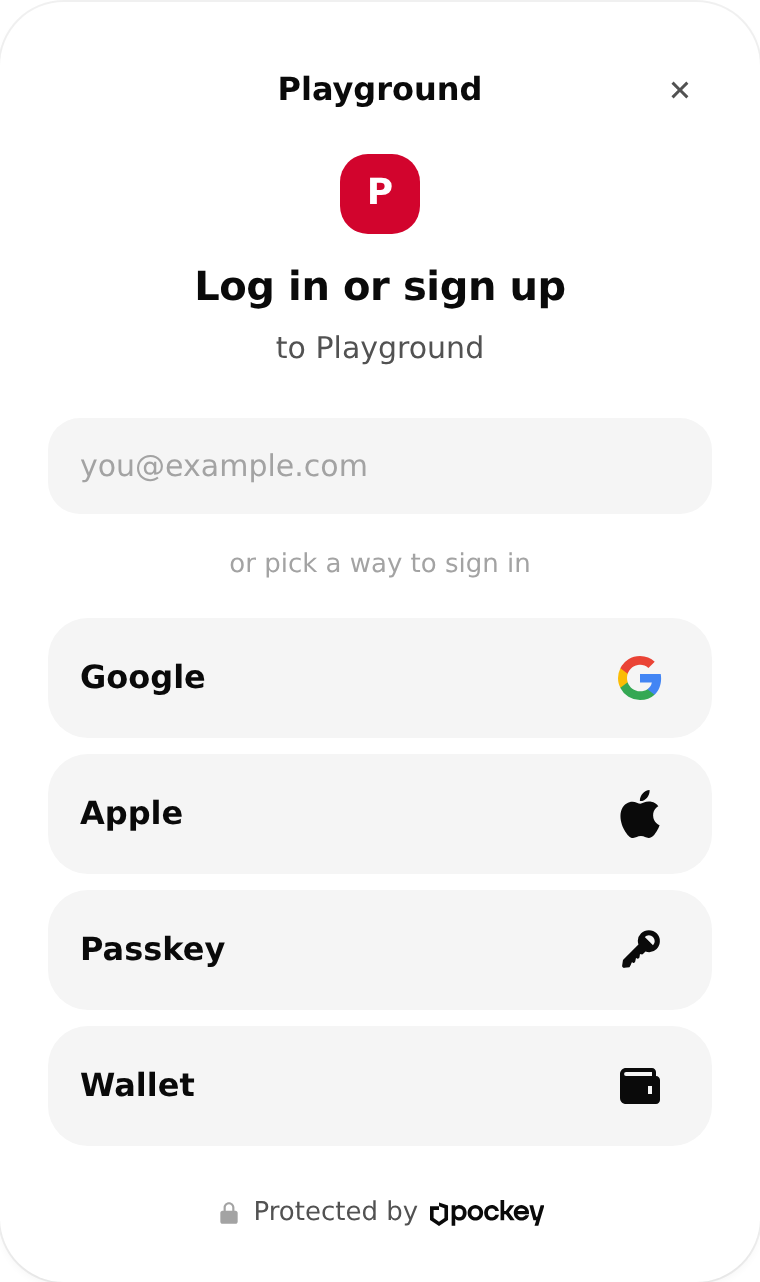
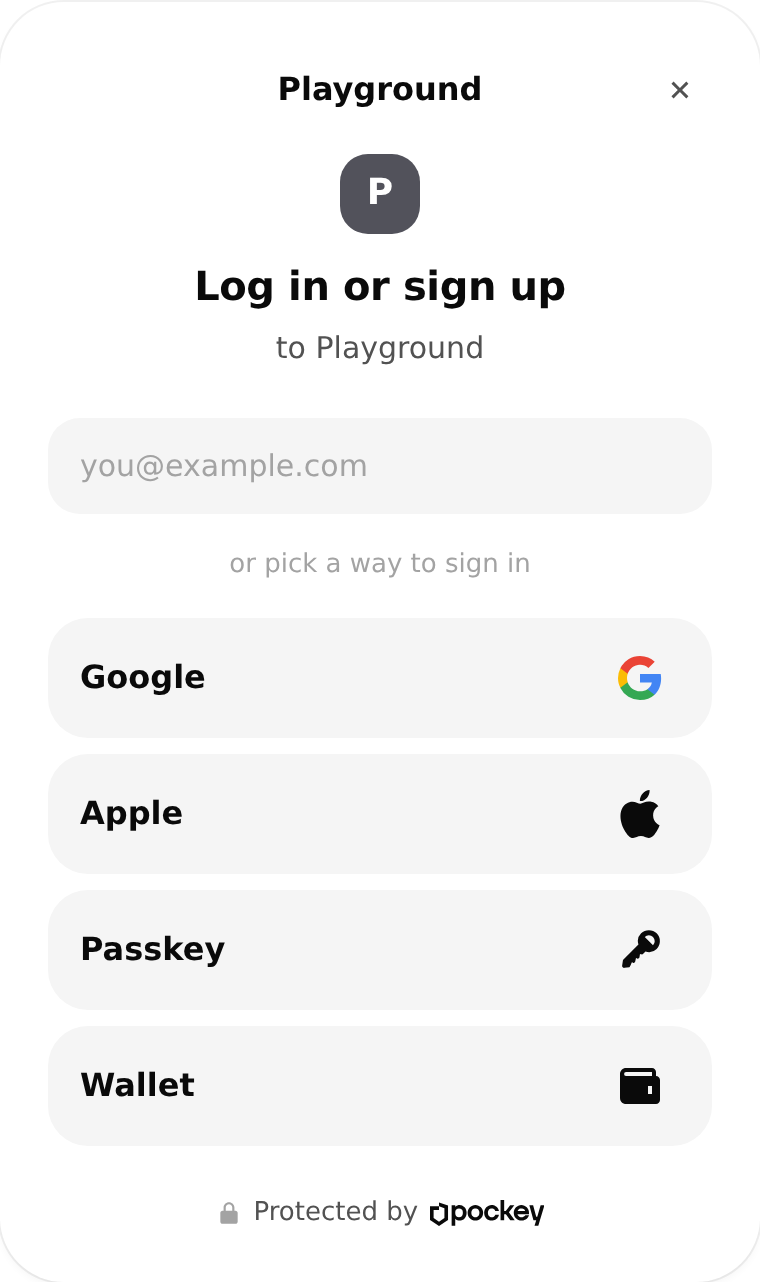
feat(site): take the colour and the furniture back out of the landing
Eighteen notes from a pass over the page, applied. The decoration goes:
no glow in the feature wells, none in the self hosting band, no numbers
over the section labels, no pill around "How it works", none around who
holds a key, no tile behind a feature icon. A panel now reads against its
well because the well is lighter than the card, not because colour was
poured behind it.

The hero loses its stage. The login screen moves up beside the headline
where it belongs, the sample goes back into a real code block, and the
command that runs it all locally sits next to it again. The band of four
facts is gone.

Questions someone actually asks before putting a wallet behind this,
answered with what the repository can back up. The mark alone in the
header. One preset turns grey, since the picker is there to show the
screen, not a red.

Changed region(s): [[0.4237, 0.0936, 0.575, 0.1872]]

diff --git a/apps/site/src/app/page.tsx b/apps/site/src/app/page.tsx
@@ -9,7 +9,6 @@ import {
   KeyRound,
   Mail,
   Palette,
-  Shield,
   Wallet,
   type IconComponent,
 } from '@/components/icons';
@@ -45,14 +44,6 @@ function Profile() {
   return <p>{evm?.address}</p>;
 }`;
 
-/* Four things that are true today, not four numbers that flatter us. */
-const FACTS = [
-  { value: 'MIT', label: 'The licence' },
-  { value: '6', label: 'Ways to log in' },
-  { value: '2', label: 'Chains, a wallet on each' },
-  { value: '1', label: 'Afternoon to deploy' },
-];
-
 const SCREENS = [
   { src: loginShot, caption: 'Log in or sign up' },
   { src: emailCodeShot, caption: 'The code, by email' },
@@ -71,10 +62,10 @@ const SKINS = [
     stage: 'radial-gradient(130% 80% at 50% -10%, rgba(65, 50, 236, 0.5), #0c0c0c 72%)',
   },
   {
-    name: 'Light, round',
+    name: 'Light, grey',
     src: skinLightShot,
-    line: "appearance: { theme: 'light', accent: '#D2042D', radius: 'round' }",
-    stage: 'radial-gradient(130% 80% at 50% -10%, rgba(210, 4, 45, 0.22), #f1f1f3 72%)',
+    line: "appearance: { theme: 'light', accent: '#52525B', radius: 'round' }",
+    stage: 'radial-gradient(130% 80% at 50% -10%, rgba(82, 82, 91, 0.2), #f1f1f3 72%)',
   },
   {
     name: 'Dark, pill',
@@ -166,10 +157,20 @@ const PIECES = [
   { name: 'The dashboard', body: 'A Next.js app, anywhere you like.' },
 ];
 
+/* The questions someone actually asks before putting a wallet behind this,
+   answered with what the repository can back up. */
 const FAQ = [
   {
-    q: 'Who holds the keys?',
-    a: 'Turnkey, in a sub-organization whose only root user is your end user. Your server cannot sign for them, and that was tested against the real API.',
+    q: 'Can my server move a user’s money?',
+    a: 'No. Keys live at Turnkey in a sub-organization whose only root user is your end user, and your API key is refused inside it. That was tested against the production API, not assumed.',
+  },
+  {
+    q: 'Do my users need a wallet already?',
+    a: 'No. An email code is enough, and the wallet exists from the first login. An existing wallet is one of the six ways in, not a requirement.',
+  },
+  {
+    q: 'What happens if a user wants to leave?',
+    a: 'They export their private key in their own browser and take it anywhere. Nothing in that path asks your server for permission.',
   },
   {
     q: 'What does it cost?',
@@ -180,19 +181,14 @@ const FAQ = [
     a: 'A Worker, a D1 database, an iframe on its own domain, and the dashboard. An afternoon the first time.',
   },
   {
-    q: 'Is it audited?',
+    q: 'Has anyone audited it?',
     a: 'No. Every flow was exercised against Turnkey’s production API and the test suite covers the stack end to end, but no third party has audited it. Read the security model before you put real value behind it.',
   },
 ] as const;
 
-/** A number and a word, so a long page says where the reader is. */
-function Eyebrow({ step, children }: { step: string; children: string }) {
-  return (
-    <p className="flex items-baseline gap-3 text-[13px] text-fg-2">
-      <span className="num text-fg-3">{step}</span>
-      {children}
-    </p>
-  );
+/** One quiet word above a heading, so a long page says where the reader is. */
+function Eyebrow({ children }: { children: string }) {
+  return <p className="text-[13px] text-fg-2">{children}</p>;
 }
 
 export default function Home() {
@@ -200,83 +196,75 @@ export default function Home() {
     <>
       {/* Hero */}
       <section className="mx-auto w-full max-w-[1120px] px-6 pb-16 pt-16 sm:pt-24">
-        <div className="stagger max-w-[760px]">
-          <p className="inline-flex items-center gap-2 rounded-pill bg-surface px-3.5 py-1.5 text-[13px] text-fg-2">
-            <span className="size-1.5 rounded-pill bg-accent" />
-            Open source, MIT, self hosted
-          </p>
-          <h1 className="mt-6 text-[44px] font-semibold leading-[1.05] tracking-[-0.03em] sm:text-[62px]">
-            Embedded wallets your users own, on your own infrastructure.
-          </h1>
-          <p className="mt-6 max-w-[560px] text-[17px] leading-[1.6] text-fg-2">
-            Login, wallets, signing and gas sponsoring behind a few React hooks. Your server never
-            holds a key that can sign.
-          </p>
-          <div className="mt-8 flex flex-wrap items-center gap-3">
-            <Link
-              href="/docs"
-              className="inline-flex items-center gap-2 rounded-pill bg-white px-5 py-3 text-[15px] font-medium text-black transition-transform duration-150 active:scale-[0.96]"
-            >
-              Read the docs
-              <ArrowRight size={16} />
-            </Link>
-            <a
-              href={site.repo}
-              target="_blank"
-              rel="noreferrer noopener"
-              className="inline-flex items-center gap-2 rounded-pill bg-surface px-5 py-3 text-[15px] text-fg transition-colors hover:bg-surface-2"
-            >
-              Clone the repository
-            </a>
-          </div>
-        </div>
-
-        {/* The hooks on the left, what they put on the screen on the right. */}
-        <div className="relative mt-14 overflow-hidden rounded-[32px] bg-surface">
-          <div
-            aria-hidden="true"
-            className="pointer-events-none absolute -right-24 -top-48 size-[620px] rounded-pill bg-accent/25 blur-[130px]"
-          />
-          <div className="relative grid grid-cols-1 gap-10 p-8 sm:p-10 lg:grid-cols-[1.15fr_0.85fr] lg:items-end lg:gap-8 lg:p-12 lg:pb-0">
-            {/* min-w-0: the sample must scroll inside its column, not widen it. */}
-            <div className="min-w-0 lg:pb-12">
-              <Code code={SAMPLE} lang="tsx" label="app.tsx" bare />
+        <div className="grid gap-12 lg:grid-cols-[1fr_300px] lg:items-start lg:gap-16">
+          <div className="stagger max-w-[680px]">
+            <p className="inline-flex items-center gap-2 rounded-pill bg-surface px-3.5 py-1.5 text-[13px] text-fg-2">
+              <span className="size-1.5 rounded-pill bg-accent" />
+              Open source, MIT, self hosted
+            </p>
+            <h1 className="mt-6 text-[44px] font-semibold leading-[1.05] tracking-[-0.03em] sm:text-[62px]">
+              Embedded wallets your users own, on your own infrastructure.
+            </h1>
+            <p className="mt-6 max-w-[560px] text-[17px] leading-[1.6] text-fg-2">
+              Login, wallets, signing and gas sponsoring behind a few React hooks. Your server never
+              holds a key that can sign.
+            </p>
+            <div className="mt-8 flex flex-wrap items-center gap-3">
+              <Link
+                href="/docs"
+                className="inline-flex items-center gap-2 rounded-pill bg-white px-5 py-3 text-[15px] font-medium text-black transition-transform duration-150 active:scale-[0.96]"
+              >
+                Read the docs
+                <ArrowRight size={16} />
+              </Link>
+              <a
+                href={site.repo}
+                target="_blank"
+                rel="noreferrer noopener"
+                className="inline-flex items-center gap-2 rounded-pill bg-surface px-5 py-3 text-[15px] text-fg transition-colors hover:bg-surface-2"
+              >
+                Clone the repository
+              </a>
             </div>
-            {/* Cut by the stage on a wide screen, the way a window cuts a page. */}
+          </div>
+
+          {/* The screen the code below puts on a page, next to the promise.
+              Taller than its frame, so it is cut rather than shrunk. */}
+          <div className="hidden h-[430px] w-[300px] justify-self-end overflow-hidden rounded-[20px] shadow-[0_40px_80px_-30px_rgba(0,0,0,0.95)] lg:block">
             <Image
               src={loginShot}
               alt="The login screen, with email, Google, Apple, a passkey and a wallet"
-              sizes="(min-width: 1024px) 360px, 70vw"
+              sizes="300px"
               priority
-              className="mx-auto w-[240px] rounded-[20px] shadow-[0_40px_80px_-30px_rgba(0,0,0,0.95)] sm:w-[280px] lg:mb-[-64px] lg:w-full lg:max-w-[360px]"
+              className="w-full"
             />
           </div>
         </div>
-      </section>
 
-      {/* Four facts */}
-      <section className="mx-auto w-full max-w-[1120px] px-6">
-        <ul className="grid grid-cols-2 gap-8 rounded-[28px] bg-surface px-8 py-10 sm:px-10 lg:grid-cols-4">
-          {FACTS.map((fact) => (
-            <li key={fact.label}>
-              <p className="num text-[34px] font-semibold leading-none tracking-[-0.02em]">
-                {fact.value}
-              </p>
-              <p className="mt-3 text-[14px] text-fg-2">{fact.label}</p>
-            </li>
-          ))}
-        </ul>
+        <div className="mt-16 grid gap-4 lg:grid-cols-[1.3fr_1fr]">
+          <Code code={SAMPLE} lang="tsx" label="app.tsx" />
+          <div className="rounded-card bg-surface p-6">
+            <h2 className="text-[16px] font-semibold">Runs locally in one command</h2>
+            <p className="mt-2 text-[14px] leading-[1.6] text-fg-2">
+              The default setup talks to an in-memory key provider, so the whole suite runs with no
+              account and no signatures spent.
+            </p>
+            <div className="mt-5 overflow-x-auto rounded-control bg-surface-2 px-4 py-3">
+              <Code code={'pnpm install\npnpm --filter @pockey/api dev'} lang="bash" bare />
+            </div>
+          </div>
+        </div>
       </section>
 
       {/* The modal */}
       <section className="mx-auto w-full max-w-[1120px] px-6 py-20">
-        <Eyebrow step="01">What the user sees</Eyebrow>
+        <Eyebrow>What the user sees</Eyebrow>
         <h2 className="mt-3 text-[32px] font-semibold tracking-[-0.02em]">
-          Four screens, on a domain you own
+          Four screens, no seed phrase, no extension
         </h2>
         <p className="mt-3 max-w-[560px] text-[16px] text-fg-2">
-          No extension, no seed phrase, no new tab. The same components ship in the package, so
-          these are captures and not drawings.
+          They run on a domain you own, from the components that ship in the package. So these are
+          captures, not drawings.
         </p>
 
         <div className="relative mt-10 overflow-hidden rounded-[28px] bg-surface px-5 pb-14 pt-14 sm:px-10 lg:pb-24">
@@ -313,7 +301,7 @@ export default function Home() {
       {/* The dashboard */}
       <section className="mx-auto w-full max-w-[1280px] px-6 py-20">
         <div className="mx-auto max-w-[1120px]">
-          <Eyebrow step="02">And what you see</Eyebrow>
+          <Eyebrow>And what you see</Eyebrow>
           <h2 className="mt-3 text-[32px] font-semibold tracking-[-0.02em]">
             A console that runs on your side
           </h2>
@@ -355,7 +343,7 @@ export default function Home() {
 
       {/* What is in the box */}
       <section className="mx-auto w-full max-w-[1120px] px-6 py-20">
-        <Eyebrow step="03">What is in the box</Eyebrow>
+        <Eyebrow>What is in the box</Eyebrow>
         <h2 className="mt-3 text-[32px] font-semibold tracking-[-0.02em]">
           Everything a wallet needs, and nothing to call home to
         </h2>
@@ -366,12 +354,9 @@ export default function Home() {
               key={item.title}
               className="overflow-hidden rounded-card bg-surface sm:col-span-2 lg:col-span-3"
             >
-              {/* A well, darker than the card, so a dark panel still reads. */}
-              <div className="relative h-[230px] overflow-hidden bg-bg">
-                <div
-                  aria-hidden="true"
-                  className="pointer-events-none absolute -top-32 left-1/2 size-[420px] -translate-x-1/2 rounded-pill bg-accent/25 blur-[100px]"
-                />
+              {/* A well, lighter than the card, so a dark panel reads against
+                  it without any colour being poured in. */}
+              <div className="relative h-[230px] overflow-hidden bg-surface-2">
                 {item.frame === 'panel' ? (
                   <Image
                     src={item.src}
@@ -384,7 +369,7 @@ export default function Home() {
                     src={item.src}
                     alt={item.alt}
                     sizes="(min-width: 1024px) 540px, 90vw"
-                    className="absolute left-7 top-9 w-[150%] max-w-none rounded-[10px] shadow-[0_30px_60px_-24px_rgba(0,0,0,0.95)]"
+                    className="absolute left-0 top-10 w-[150%] max-w-none"
                   />
                 )}
               </div>
@@ -397,9 +382,7 @@ export default function Home() {
 
           {FEATURES.map((feature) => (
             <article key={feature.title} className="rounded-card bg-surface p-6 lg:col-span-2">
-              <span className="flex size-9 items-center justify-center rounded-control bg-surface-2">
-                <feature.icon size={18} className="text-fg" />
-              </span>
+              <feature.icon size={20} className="text-fg" />
               <h3 className="mt-5 text-[15px] font-semibold">{feature.title}</h3>
               <p className="mt-2 text-[14px] text-fg-2">{feature.body}</p>
             </article>
@@ -409,10 +392,7 @@ export default function Home() {
 
       {/* How it works */}
       <section id="how" className="mx-auto w-full max-w-[1120px] scroll-mt-20 px-6 py-20">
-        <p className="inline-flex w-fit items-center gap-2 rounded-pill bg-surface px-3.5 py-1.5 text-[13px] text-fg-2">
-          <Shield size={14} className="text-fg" />
-          How it works
-        </p>
+        <Eyebrow>How it works</Eyebrow>
         <h2 className="mt-3 text-[32px] font-semibold tracking-[-0.02em]">
           Three credentials, three kinds of power
         </h2>
@@ -426,31 +406,17 @@ export default function Home() {
             <article key={item.name} className="rounded-card bg-surface p-7">
               <p className="num text-[13px] text-fg-3">{`0${String(index + 1)}`}</p>
               <h3 className="mt-6 text-[17px] font-semibold">{item.name}</h3>
-              <p className="mt-2 inline-flex rounded-pill bg-surface-2 px-3 py-1 text-[12px] text-fg-2">
-                Held by {item.holder}
-              </p>
+              <p className="mt-1 text-[13px] text-fg-3">Held by {item.holder}</p>
               <p className="mt-4 text-[14px] leading-[1.6] text-fg-2">{item.body}</p>
             </article>
           ))}
         </div>
-
-        <Link
-          href="/docs/security"
-          className="mt-6 inline-flex items-center gap-2 text-[15px] text-fg transition-opacity hover:opacity-70"
-        >
-          The security model
-          <ArrowRight size={15} />
-        </Link>
       </section>
 
       {/* Self hosting */}
       <section id="self-hosting" className="mx-auto w-full max-w-[1120px] scroll-mt-20 px-6 py-20">
-        <div className="relative overflow-hidden rounded-[32px] bg-surface p-8 sm:p-10 lg:p-14">
-          <div
-            aria-hidden="true"
-            className="pointer-events-none absolute -bottom-40 -left-24 size-[520px] rounded-pill bg-accent/20 blur-[130px]"
-          />
-          <div className="relative grid gap-12 lg:grid-cols-2 lg:gap-16">
+        <div className="overflow-hidden rounded-[32px] bg-surface p-8 sm:p-10 lg:p-14">
+          <div className="grid gap-12 lg:grid-cols-2 lg:gap-16">
             <div>
               <h2 className="text-[32px] font-semibold tracking-[-0.02em]">Host it yourself</h2>
               <p className="mt-4 max-w-[460px] text-[16px] leading-[1.6] text-fg-2">

diff --git a/apps/site/src/components/nav.tsx b/apps/site/src/components/nav.tsx
@@ -1,5 +1,5 @@
 import Link from 'next/link';
-import { Lockup } from './logo';
+import { Mark } from './logo';
 import { GitHubIcon } from './icons';
 import { nav, site } from '@/lib/site';
 
@@ -8,7 +8,7 @@ export function Nav() {
     <header className="sticky top-0 z-50 bg-bg/80 backdrop-blur-md">
       <div className="mx-auto flex h-16 w-full max-w-[1120px] items-center gap-8 px-6">
         <Link href="/" aria-label="Pockey, home" className="shrink-0 text-fg">
-          <Lockup height={17} />
+          <Mark height={22} />
         </Link>
 
         <nav className="hidden items-center gap-6 sm:flex">
@@ -24,12 +24,6 @@ export function Nav() {
         </nav>
 
         <div className="ml-auto flex items-center gap-2">
-          <Link
-            href="/docs/self-hosting"
-            className="hidden rounded-pill px-4 py-2 text-[14px] text-fg-2 transition-colors hover:bg-surface hover:text-fg md:block"
-          >
-            Self host it
-          </Link>
           <a
             href={site.repo}
             target="_blank"
